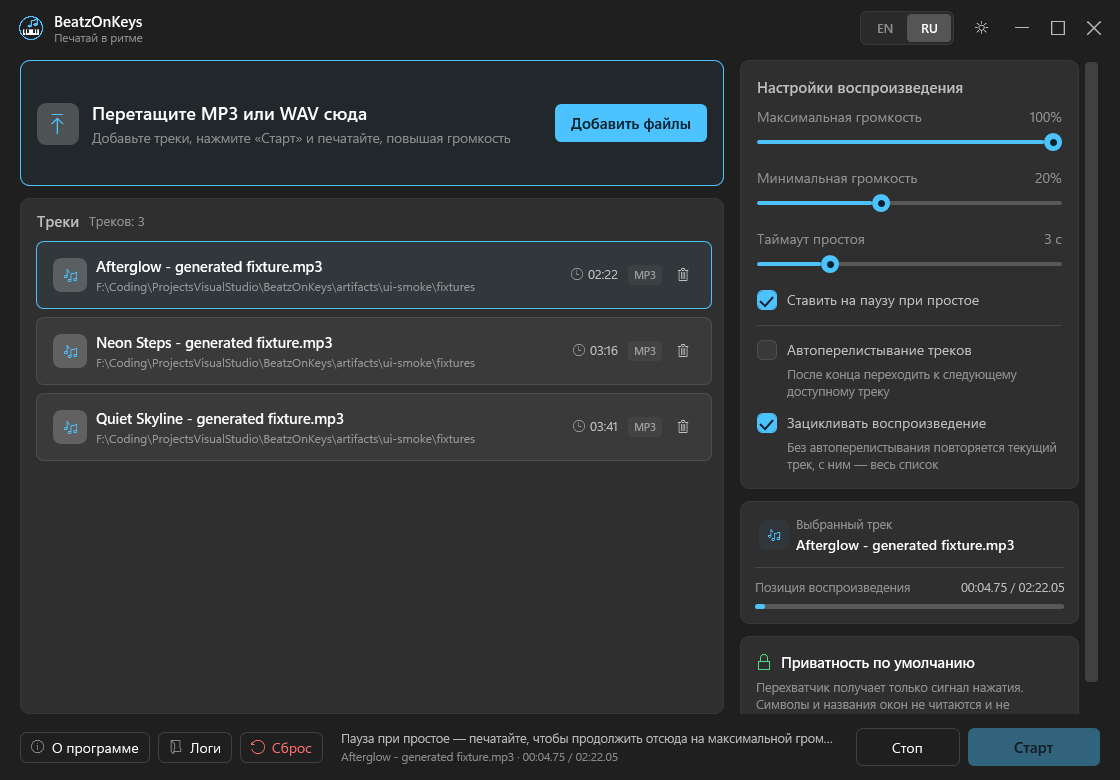
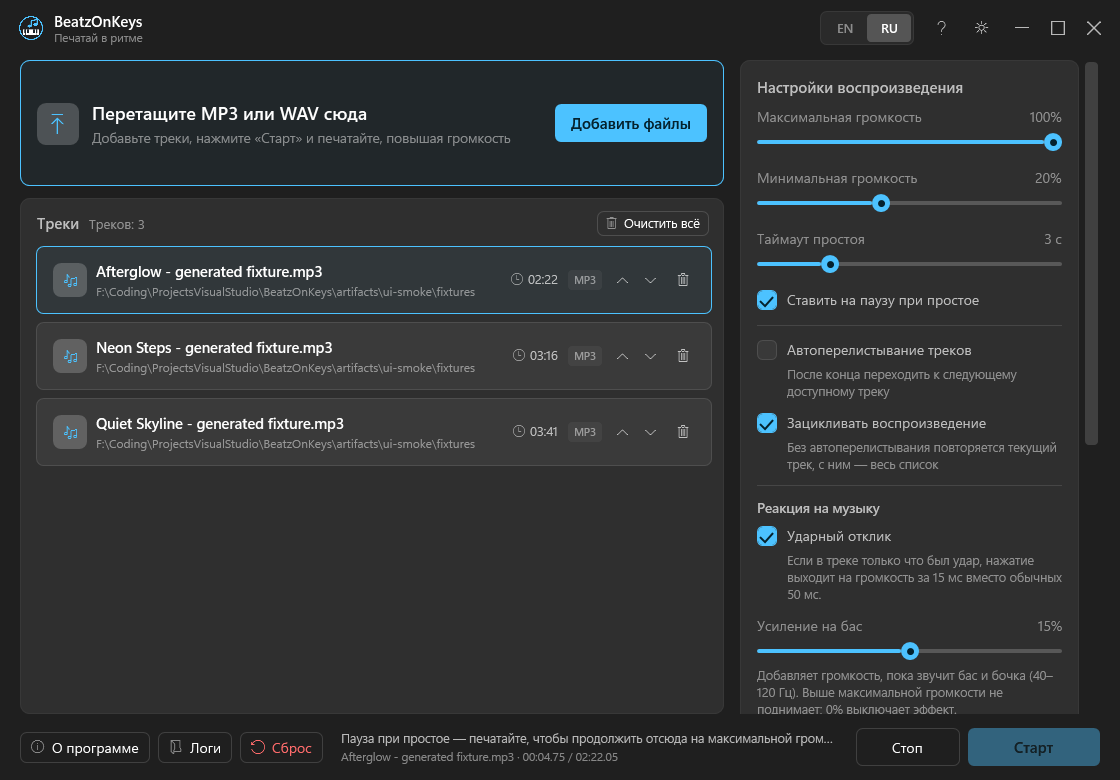
Refresh README screenshots for 1.2.1
Every preview was captured before the guide, the playlist arrows, the Clear all button, and the Music reaction block existed, so the images no longer matched the shipped UI. Regenerated all six previews from the current build through the existing smoke harness, which renders real WPF visuals.

Added the two guide captures the README never had. The harness captured the English guide while Russian was still active because the render matrix leaves that language behind; GuideAsync now selects English first, and a new guide.englishFirst check fails the run if the capture is not really English.

diff --git a/tools/UiSmoke/Program.cs b/tools/UiSmoke/Program.cs
@@ -493,6 +493,9 @@ internal sealed class SmokeRun(string root, string session, App app, int aborted
     /// <summary>The guide is a real window: it must open, render every control, and follow the language switch.</summary>
     private async Task GuideAsync()
     {
+        // The render matrix leaves Russian active; start deterministically in English.
+        _vm!.SetLanguageCommand.Execute("en");
+        await SettleAsync();
         app.ShowGuideWindow();
         await SettleAsync();
         var guide = GetField<GuideWindow>(app, "_guideWindow");
@@ -507,6 +510,8 @@ internal sealed class SmokeRun(string root, string session, App app, int aborted
         var missing = described.Where(key => !english.Contains(Loc.T(key))).ToArray();
         Check("guide.coversEveryControl", missing.Length == 0 && english.Length > 40,
             $"{english.Length} visible labels; missing: {string.Join(", ", missing)}.");
+        Check("guide.englishFirst", english.Contains("Quick start") && english.Contains("Punch response"),
+            "The English capture really renders English text.");
         SaveScreenshot(guide, $"guide-{Theme.CurrentCode}-en.png");
 
         _vm!.SetLanguageCommand.Execute("ru");

diff --git a/README.ru.md b/README.ru.md
@@ -115,7 +115,7 @@ BeatzOnKeys написана на C# с .NET 10 и WPF; NAudio отвечает 
 
 Переключатель `EN | RU` в заголовке мгновенно меняет язык; кнопка солнца/луны — светлую/тёмную палитру. Оба выбора сохраняются.
 
-[Светлая тема, EN](<assets/preview-light-en.png>) · [«О программе»](<assets/about-ru.png>) · [Светлое «О программе»](<assets/about-light-ru.png>)
+[Светлая тема, EN](<assets/preview-light-en.png>) · [«О программе»](<assets/about-ru.png>) · [Светлое «О программе»](<assets/about-light-ru.png>) · [Гайд, RU](<assets/guide-ru.png>) · [Гайд, EN](<assets/guide-en.png>)
 
 Совпадающая документация доступна на [английском](<README.md>) и [русском](<README.ru.md>).
 

diff --git a/README.md b/README.md
@@ -117,7 +117,7 @@ The title-bar `EN | RU` switch changes the language immediately; the sun/moon bu
 
 ![BeatzOnKeys light theme](<assets/preview-light-en.png>)
 
-[About dialog](<assets/about-ru.png>) · [Light About dialog](<assets/about-light-ru.png>)
+[About dialog](<assets/about-ru.png>) · [Light About dialog](<assets/about-light-ru.png>) · [Guide, English](<assets/guide-en.png>) · [Guide, Russian](<assets/guide-ru.png>)
 
 Matching documentation is available in [English](<README.md>) and [Russian](<README.ru.md>).
 
